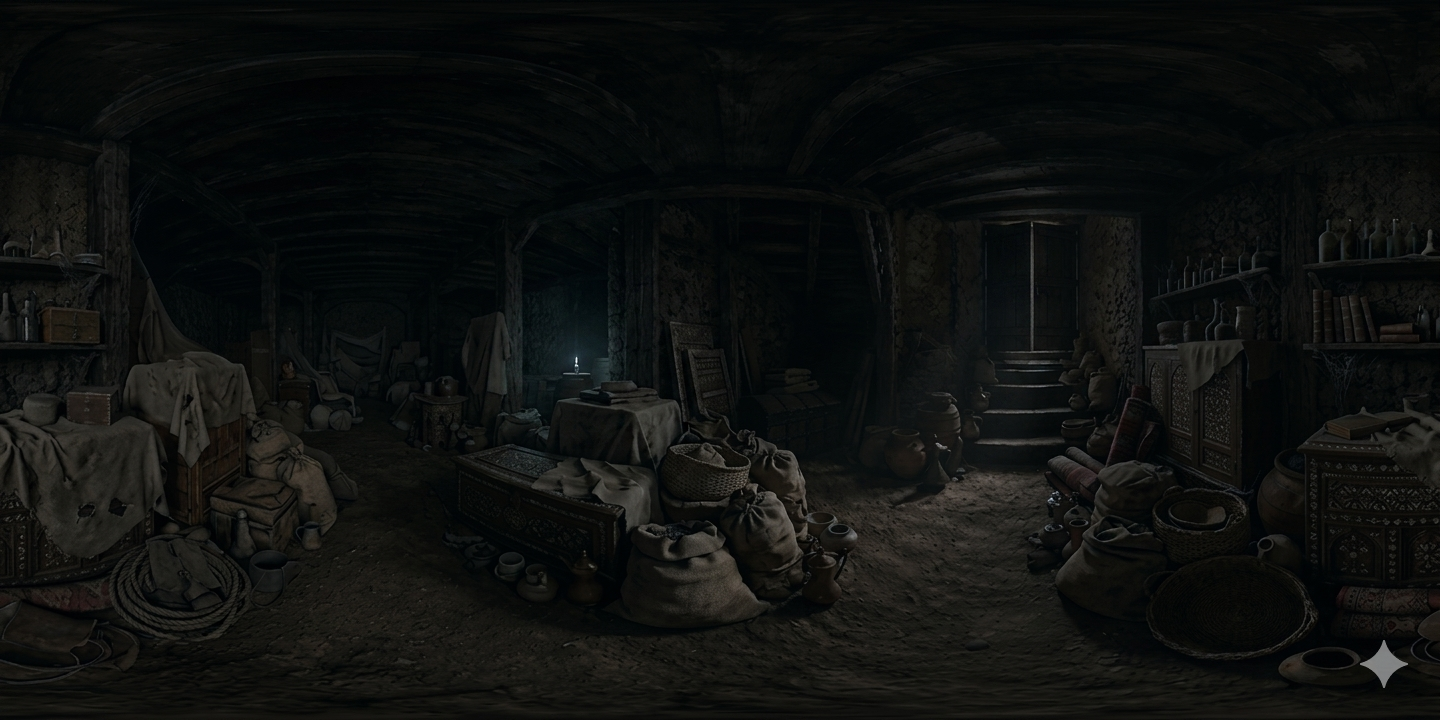
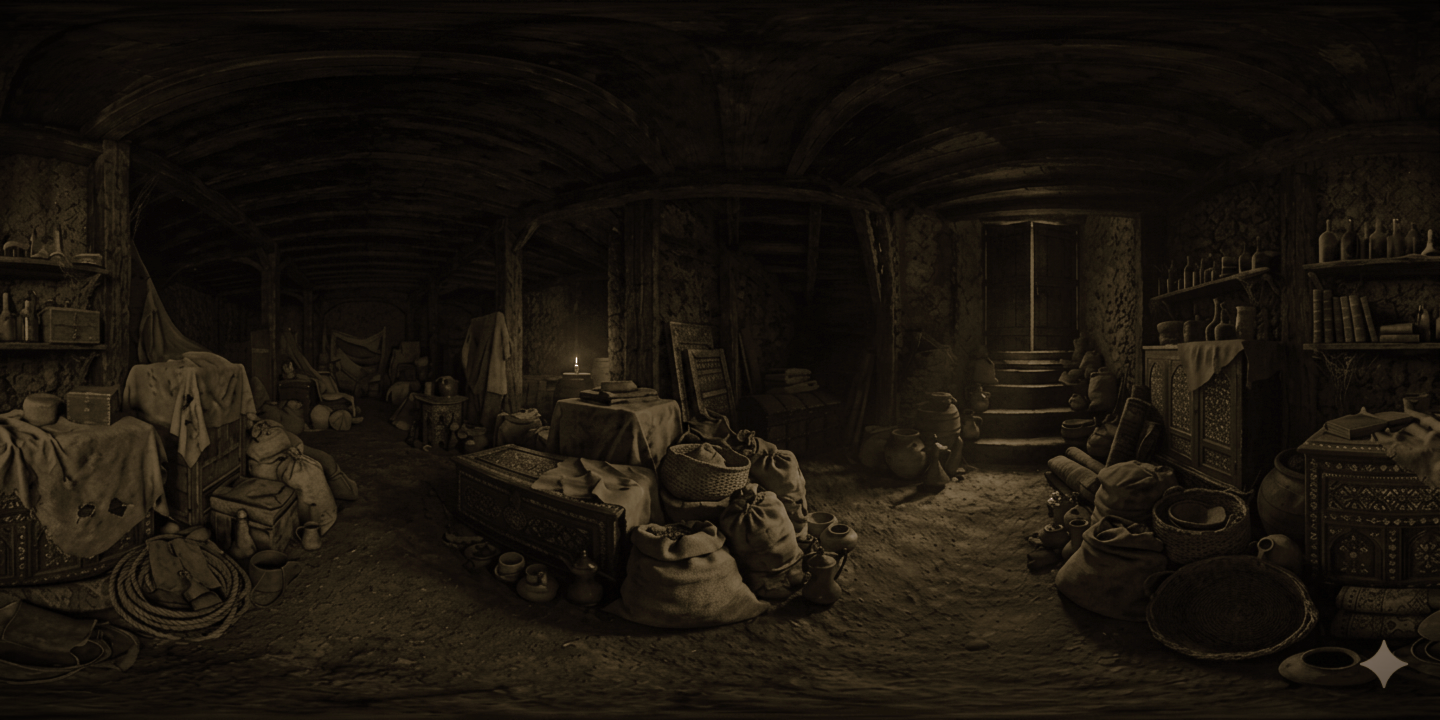
fix: Revert custom exit SVG to ensure clickability but keep reddish color

diff --git a/src/js/engine/PoiManager.js b/src/js/engine/PoiManager.js
@@ -138,15 +138,13 @@ export class PoiManager {
 
         const div = document.createElement('div');
         div.className = 'nav-marker exit-marker';
-        // Design différent : couleur différente et icône "porte/sortie"
         div.innerHTML = `
-            <div class="nav-arrow" style="filter: drop-shadow(0 0 8px rgba(255,255,255,0.5)); transform: scale(1.1);">
-                <svg viewBox="0 0 50 50" xmlns="http://www.w3.org/2000/svg">
-                    <!-- Flèche creuse ou design spécial sortie -->
-                    <path d="M25 2 L45 25 L35 25 L35 48 L15 48 L15 25 L5 25 Z" fill="rgba(255, 255, 255, 0.9)" stroke="rgba(231, 186, 128, 1)" stroke-width="2"/>
+            <div class="nav-arrow">
+                <svg viewBox="0 0 40 50" xmlns="http://www.w3.org/2000/svg">
+                    <polygon points="20,2 38,48 20,36 2,48" fill="rgba(255, 100, 100, 0.95)" />
                 </svg>
             </div>
-            <span class="nav-label" style="color: #fff; background: rgba(0,0,0,0.6); padding: 4px 8px; border-radius: 4px;">${label}</span>
+            <span class="nav-label">${label}</span>
         `;
 
         const css = new CSS2DObject(div);